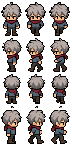
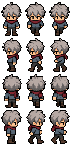
fix: adjust hero size and remove stray pixels below feet

diff --git a/src/main/java/finalgame/ExplorationRoom.java b/src/main/java/finalgame/ExplorationRoom.java
@@ -184,16 +184,14 @@ public class ExplorationRoom {
         }
         int feetX=(int)Math.round((x+SIZE/2)*scaleX);
         int feetY=(int)Math.round((y+SIZE)*scaleY);
-        g.setColor(new Color(0,0,0,85));
-        g.fillOval(feetX-11,feetY-4,22,7);
-        animation.draw(g,feetX,feetY,48,72);
+        animation.draw(g,feetX,feetY,36,54);
         g.dispose();
         graphics.setColor(new Color(15,20,19));
         graphics.fillRect(0,0,VIEW_W,TOP);
         graphics.fillRect(0,TOP+VIEW_H,VIEW_W,60);
         graphics.setFont(new Font(Font.MONOSPACED,Font.BOLD,18));
         graphics.setColor(Color.WHITE);
-        graphics.drawString("FOREST v3.1  |  "+(cleared?"Route to mine: OPEN":"Follow the trail"),20,25);
+        graphics.drawString("FOREST v3.2  |  "+(cleared?"Route to mine: OPEN":"Follow the trail"),20,25);
         graphics.setFont(new Font(Font.MONOSPACED,Font.PLAIN,14));
         graphics.drawString(cleared ? "WASD: Walk | Shift: Run | Esc: Pause | F3: Collision view" : "WASD: Walk | Shift: Run | Esc: Pause | F3: Collision view",20,47);
         graphics.setColor(mineReached?new Color(175,210,175):Color.LIGHT_GRAY);
